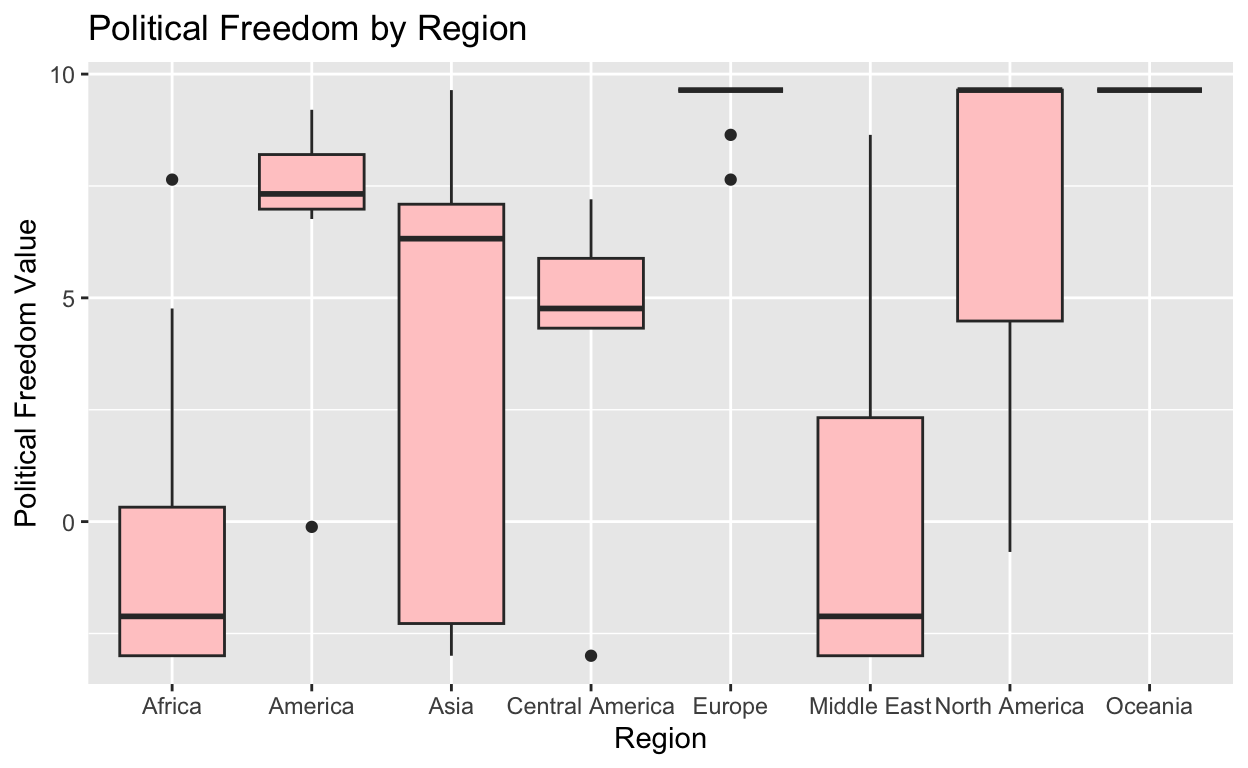
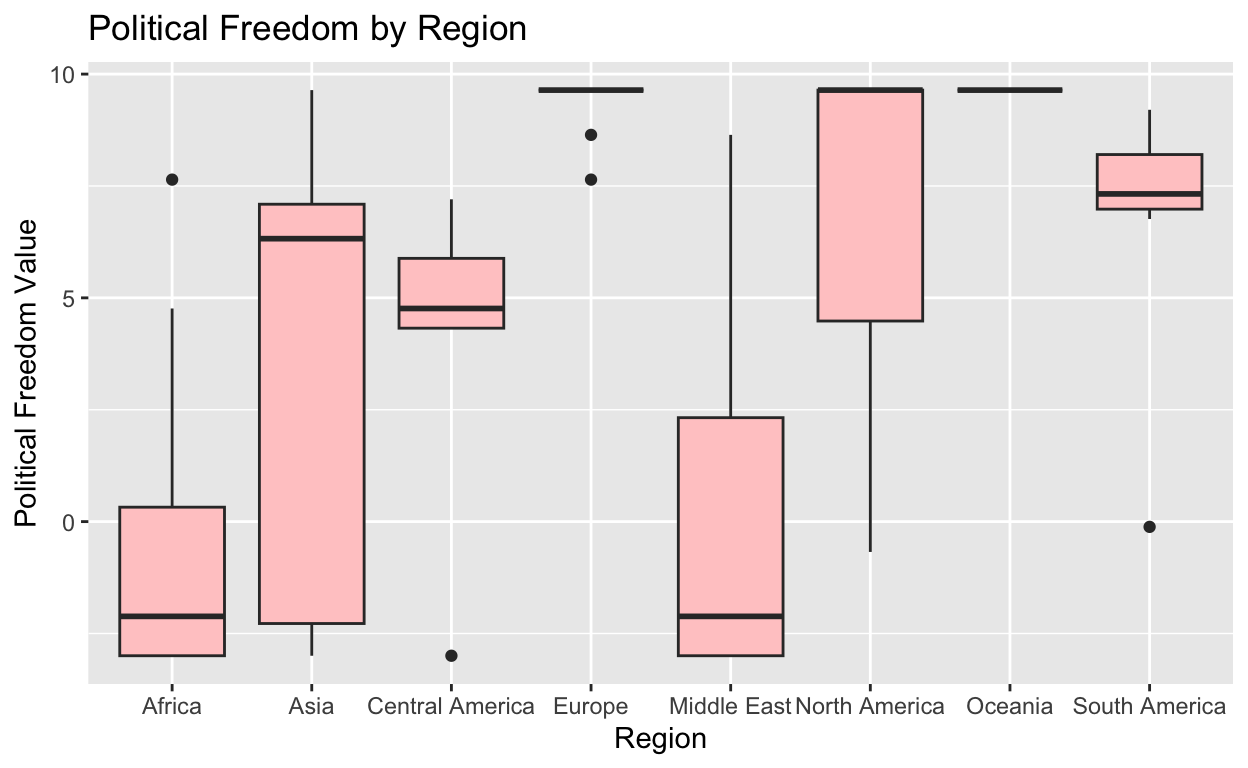
hello

diff --git a/index.html b/index.html
@@ -1540,7 +1540,7 @@ Dataset Citation:
 </div>
 </div>
 <h2 id="the-creation-of-two-new-variables">The Creation of Two New Variables</h2>
-<p>The authors of the dataset indicated that political freedom is best measured by a joint assessment of the political rights index and democracy score. Therefore, I used these two provided variables to create a normalized score for political freedom by adding the Z-scores of each variable. This normalization is done to ensure that the resulting score for political freedom has a consistent scale and maintains the integrity of the data by accounting for variations in the original measurement scales of the political rights index and democracy score.</p>
+<p>The authors of the dataset indicated that political freedom is best measured by a joint assessment of the political rights index and democracy score. Therefore, I used these two provided variables to create a normalized score for political freedom by adding the Z-scores of each variable. This normalization is done to ensure that the resulting score for political freedom has a consistent scale and maintains the integrity of the data by accounting for differences in the distributions of the political rights index and democracy score.</p>
 <p>The second variable that I created was a region variable. With 71 countries in the dataset, I wanted to be able to group the countries by region to simplify my visualization of the dependent variable. The process of creating this region variable can be seen below.</p>
 <div class="layout-chunk" data-layout="l-body">
 <div class="sourceCode">
@@ -1562,8 +1562,8 @@ Dataset Citation:
 <span>                                   <span class='va'>c_amer</span> <span class='op'>==</span> <span class='fl'>1</span> <span class='op'>~</span> <span class='st'>"Central America"</span>,</span>
 <span>                                   <span class='va'>n_amer</span> <span class='op'>==</span> <span class='fl'>1</span> <span class='op'>~</span> <span class='st'>"North America"</span>,</span>
 <span>                                   <span class='va'>oceania</span> <span class='op'>==</span> <span class='fl'>1</span> <span class='op'>~</span> <span class='st'>"Oceania"</span>,</span>
+<span>                                   <span class='va'>s_amer</span> <span class='op'>==</span> <span class='fl'>1</span> <span class='op'>~</span> <span class='st'>"South America"</span>,</span>
 <span>                                   <span class='va'>meast</span> <span class='op'>==</span> <span class='fl'>1</span> <span class='op'>~</span> <span class='st'>"Middle East"</span>,</span>
-<span>                                   <span class='va'>america</span> <span class='op'>==</span> <span class='fl'>1</span> <span class='op'>~</span> <span class='st'>"America"</span>,</span>
 <span>                                   <span class='va'>asia</span> <span class='op'>==</span> <span class='fl'>1</span> <span class='op'>~</span> <span class='st'>"Asia"</span>,</span>
 <span>                                   <span class='va'>aurasia</span> <span class='op'>==</span> <span class='fl'>1</span> <span class='op'>~</span> <span class='st'>"South Asia"</span><span class='op'>)</span><span class='op'>)</span></span></code></pre>
 </div>
